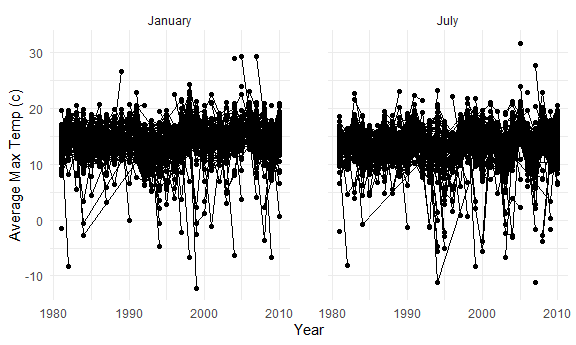
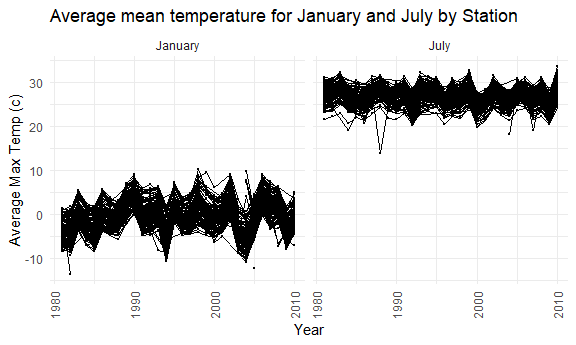
fixed graphs in problem 3

diff --git a/p8105_hw3_smv2138.md b/p8105_hw3_smv2138.md
@@ -6,14 +6,14 @@ Sushupta Vijapur
 library(tidyverse)
 ```
 
-    ## -- Attaching packages ------------------------------------------------------------------------------------------------------------- tidyverse 1.3.0 --
+    ## -- Attaching packages ------------------------------- tidyverse 1.3.0 --
 
     ## v ggplot2 3.3.2     v purrr   0.3.4
     ## v tibble  3.0.3     v dplyr   1.0.2
     ## v tidyr   1.1.2     v stringr 1.4.0
     ## v readr   1.3.1     v forcats 0.5.0
 
-    ## -- Conflicts ---------------------------------------------------------------------------------------------------------------- tidyverse_conflicts() --
+    ## -- Conflicts ---------------------------------- tidyverse_conflicts() --
     ## x dplyr::filter() masks stats::filter()
     ## x dplyr::lag()    masks stats::lag()
 
@@ -243,6 +243,9 @@ accel_data %>%
 |    4 | 260617 | 409450.00 | 319568.0 |    434460 | 340291.0 | 154049.0 |     1440 |
 |    5 | 138421 | 389080.00 | 367824.0 |    445366 | 549658.0 | 620860.0 |     1440 |
 
+In weeks 4 and 5, the activity was particularly lower than in other
+weeks and other days.
+
 ### Part 3
 
 Accelerometer data allows the inspection activity over the course of the
@@ -316,14 +319,23 @@ Clean data
 ``` r
 ny_noaa =
   ny_noaa %>% 
-  separate(date, into = c("year", "day", "month")) %>% 
+  separate(date, c("year", "month", "day"), convert = TRUE) %>% 
   mutate(
-    prcp = as.numeric(prcp / 10),
+    prcp = prcp / 100,
+    snow = snow / 10,
+    snwd = snwd / 10,
     tmax = as.numeric(tmax) / 10,
-    tmin = as.numeric(tmin) / 10,
-    month = as.numeric(month),
-    day = as.numeric(day),
-    year = as.numeric(year))
+    tmin = as.numeric(tmin) / 10
+  )
+   
+
+month_df = 
+  tibble(
+    month = 1:12,
+    month_name = month.name
+  )
+
+tidy_ny_noaa = left_join(ny_noaa, month_df, by = "month")
 
 ny_noaa %>% 
   count(snow) %>% 
@@ -332,18 +344,26 @@ ny_noaa %>%
 
     ## # A tibble: 282 x 2
     ##     snow       n
-    ##    <int>   <int>
-    ##  1     0 2008508
-    ##  2    NA  381221
-    ##  3    25   31022
-    ##  4    13   23095
-    ##  5    51   18274
-    ##  6    76   10173
-    ##  7     8    9962
-    ##  8     5    9748
-    ##  9    38    9197
-    ## 10     3    8790
+    ##    <dbl>   <int>
+    ##  1   0   2008508
+    ##  2  NA    381221
+    ##  3   2.5   31022
+    ##  4   1.3   23095
+    ##  5   5.1   18274
+    ##  6   7.6   10173
+    ##  7   0.8    9962
+    ##  8   0.5    9748
+    ##  9   3.8    9197
+    ## 10   0.3    8790
     ## # ... with 272 more rows
+
+This dataset contains 2595176 rows and 10 columns. I merged in a month
+names variable to list the names of the months instead of the numbers.
+FUrthermore, I converted tmin (minimum temperatue), tmax (maximum
+temperature) and prcp (precipitation) to acceptable and readable units.
+Furthermore, I split up the date variable into day, month and year. This
+dataset also contains data on snowfall and snowdepth as well as the
+stations across New York State reporting these numbers.
 
 The most commonly observed value for snowfall in mm is 0. This is
 probably due to the fact that the data is collected from NYS. For the
@@ -357,39 +377,40 @@ in July in each station across years. Is there any observable /
 interpretable structure? Any outliers?
 
 ``` r
-ny_noaa %>% 
-  filter(month %in% c(01, 07)) %>% 
-  mutate(month = recode(month, '01' = "January", '07' = "July")) %>% 
-  group_by(year, month, id) %>% 
+tidy_ny_noaa %>% 
+  group_by(id, year, month_name) %>% 
+  filter(month_name %in% c("January", "July")) %>% 
   summarize(
     mean_max_temp = mean(tmax, na.rm = TRUE)
   ) %>% 
   ggplot(aes(x = year, y = mean_max_temp, group = id)) +
-  geom_point() +
-  geom_path() +
-  facet_grid(~month) +
+  geom_point(size = 0.1) +
+  geom_path(size = 0.1) +
+  facet_grid(. ~ month_name) +
   labs(
+    title = "Average mean temperature for January and July by Station",
     x = "Year",
     y = "Average Max Temp (c)"
   ) +
-  theme(panel.spacing = unit(2, "lines"))
+  theme(axis.text.x = element_text(angle = 90, vjust = 0.5, hjust = 1))
 ```
 
-    ## `summarise()` regrouping output by 'year', 'month' (override with `.groups` argument)
+    ## `summarise()` regrouping output by 'id', 'year' (override with `.groups` argument)
 
-    ## Warning: Removed 7038 rows containing missing values (geom_point).
+    ## Warning: Removed 5970 rows containing missing values (geom_point).
 
-    ## Warning: Removed 7007 row(s) containing missing values (geom_path).
+    ## Warning: Removed 5931 row(s) containing missing values (geom_path).
 
 <img src="p8105_hw3_smv2138_files/figure-gfm/unnamed-chunk-11-1.png" width="90%" />
 Yes, there are two outliers in the July plot around 2005 and 2007, where
-one is above the plot and the other is below the plow respectively.
-These points are not connected by the path line. most of the mean temps
-lie between 10 and 30 degrees C. Therefore, there are also some values
-that are far from the general average mean temp. For example, in the
-January plot, around 1999, the average mean temp was below -10 degrees C
-with would be considered an outlier. There are several other instances
-like this in both months.
+one is above the plot and the other is below the plow respectively. Most
+of the mean temps lie between 10 and 30 degrees C. Therefore, there are
+also some values that are far from the general average mean temp. For
+example, in the January plot, around 1999, the average mean temp was
+below -10 degrees C with would be considered an outlier. There are
+several other instances like this in both months.The stations do overlap
+over the time period in terms of max and min temps. Lastly, the mean
+temp in July was higher than the mean temp in January.
 
 ### Part 3
 
@@ -403,9 +424,9 @@ hex_plot =
 ny_noaa %>% 
   ggplot(aes(x = tmax, y = tmin)) +
   geom_hex() +
-  theme(legend.position = "none") +
+  theme(legend.direction = "vertical") +
   labs(
-    title = "Max temperature versus Min temperature",
+    title = "Max temp versus Min temp",
     x = "Maximum temperature",
     y = "Minimum temperautre"
   )
@@ -413,16 +434,21 @@ ny_noaa %>%
 
 violin_plot = 
   ny_noaa %>% 
-  filter(snow < 100, snow > 0, na.rm = TRUE) %>% 
-  ggplot(aes(x = snow, y = year)) +
-  geom_violin() +
+  filter(snow < 100, snow > 0, na.rm = TRUE) %>%
+  group_by(year) %>% 
+  mutate(
+    year = as.factor(year)
+  ) %>% 
+  ggplot(aes(x = year, y = snow)) +
+  geom_violin(aes(fill = year), alpha = 0.5) +
   labs(
-    title = "Distribution of snowfall between 0 to 100 mm by year",
+    title = "Distribution of snowfall (0-100mm) by year",
     x = "Snowfall (mm)",
     y = "Years"
-  )
+  ) +
+  theme(axis.text.x = element_text(angle = 90, vjust = 0.5, hjust = 1))
   
-hex_plot + violin_plot  
+hex_plot + violin_plot 
 ```
 
     ## Warning: Removed 1136276 rows containing non-finite values (stat_binhex).
@@ -432,5 +458,5 @@ From the hex plot of tmax versus tmin, we can see that while there is
 some variability, the majority of the values are at the center of the
 distribution.
 
-From the violin plot we can see that a lot of the variability in
-snowfall happened in 2010.
+From the violin plot we can see that was not a lot of the variability in
+snowfall across the years of the study.
